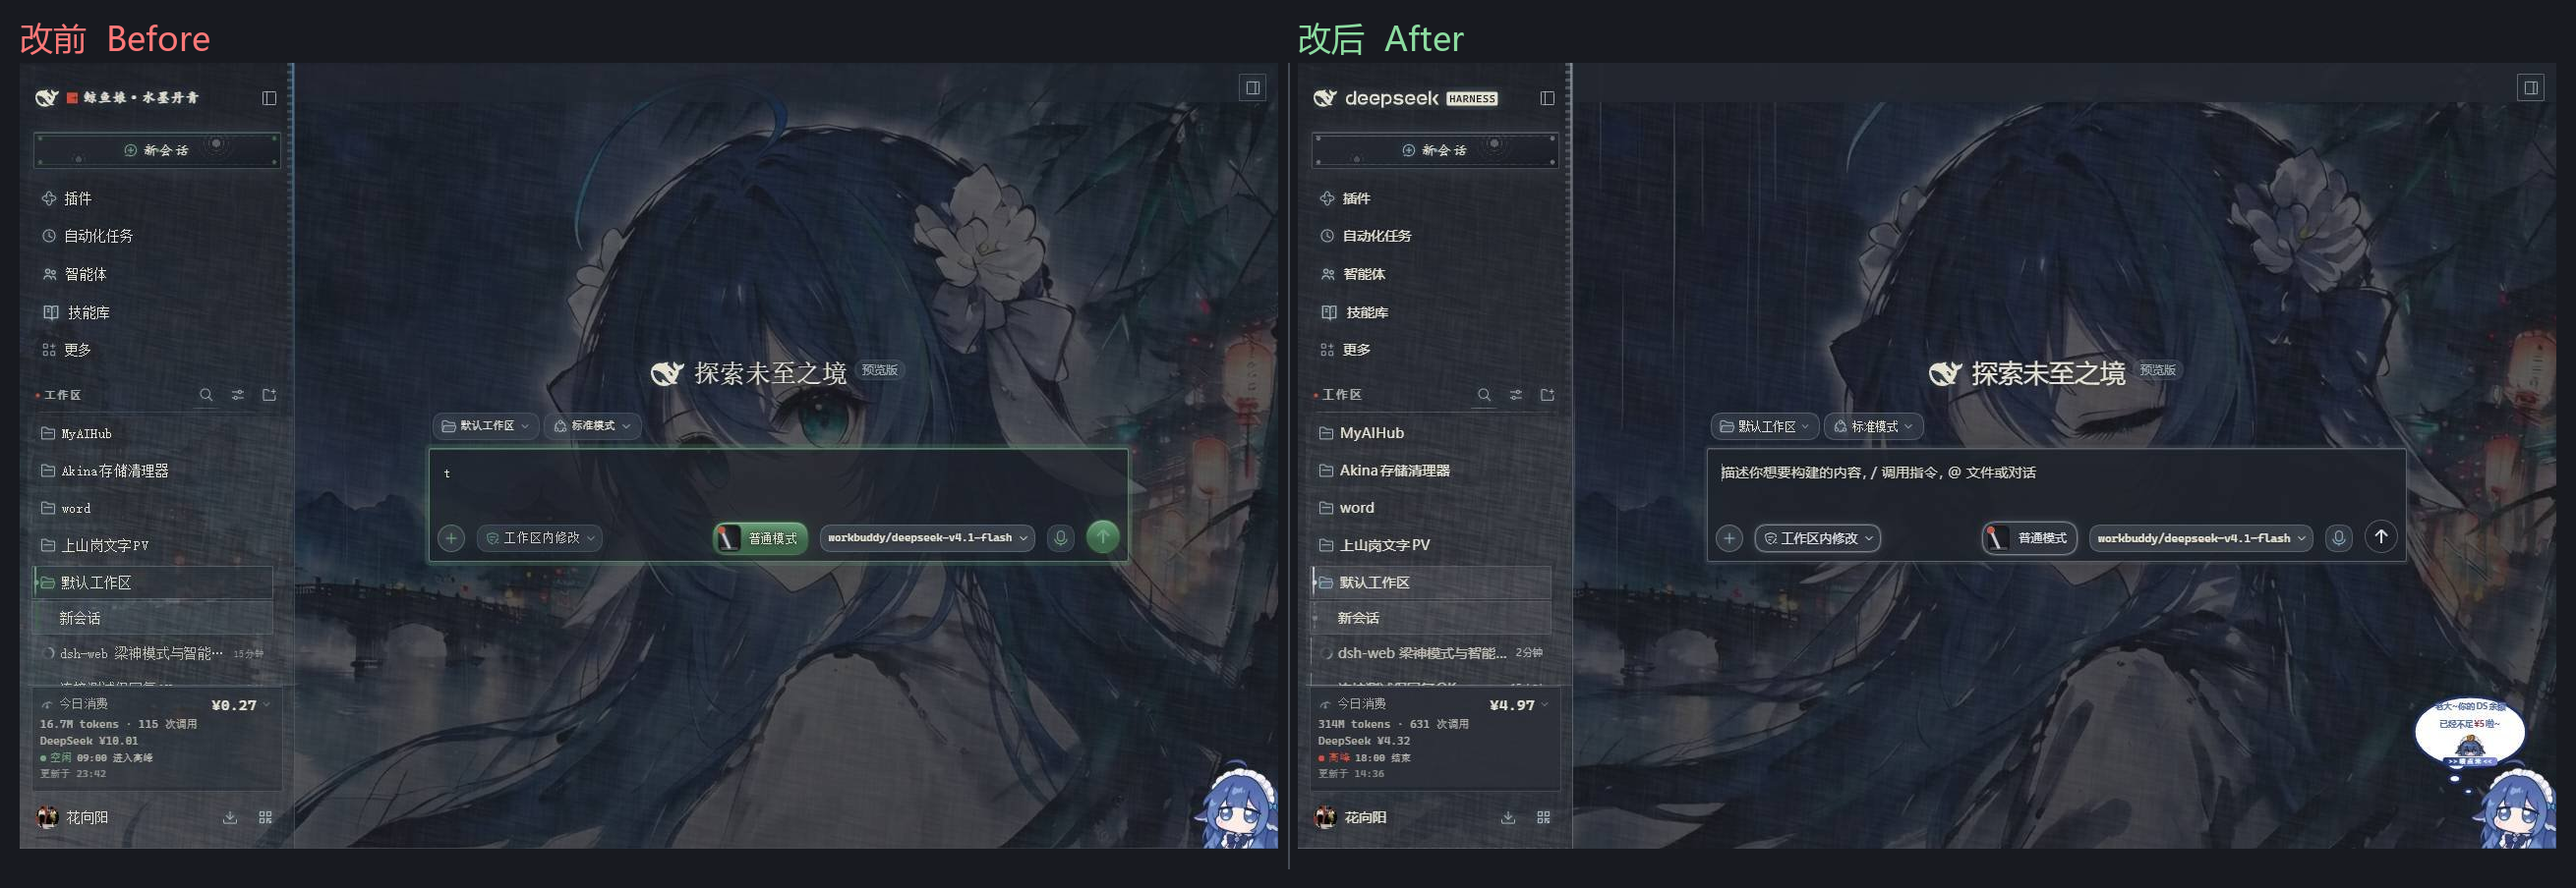
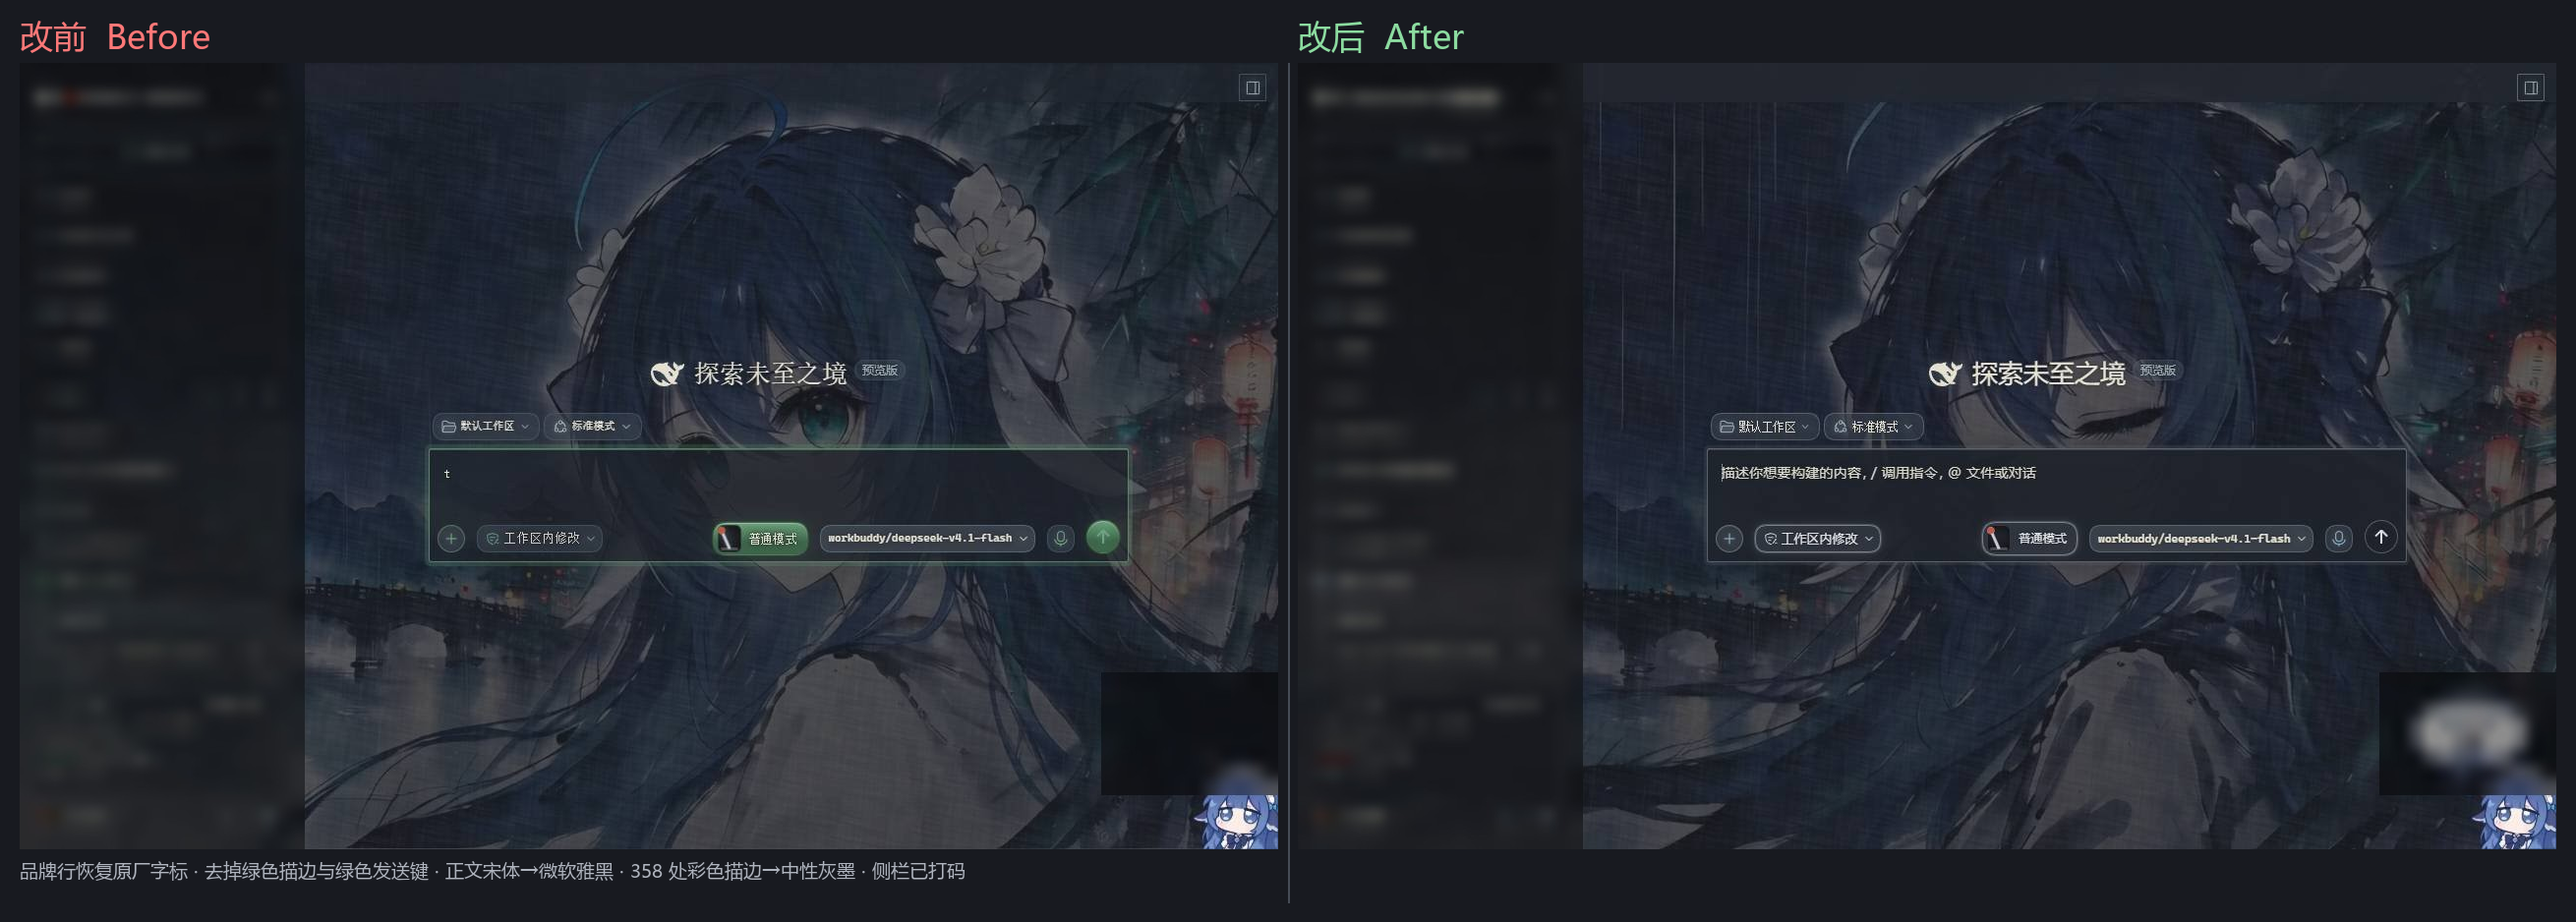
docs: 隐私打码、开头讲清改动、补充前置依赖说明
1. 图片去敏
   - 对比图与两张原图（safe-before/safe-after）的左侧栏与右下角气泡全部模糊打码，
     避免暴露工作区名、会话名、账号与用量数字
   - 重做 before-after.png，底部加一行改动摘要

2. 开头讲清「改了什么、为什么改」
   - README 第一屏即给出 5 行对照表：问题 → 改法 → 理由
     （动画永远在播 / 宋体小字发虚 / 358 处彩色描边 / 品牌行被替换 / 面板过透）
   - 补充两处小修（次要文字提亮、柔光减层）与「装饰元素未动」的说明
   - 删除原先重复的「为什么要做这个改版」章节

3. 补充安装前置依赖（重要）
   - 明确 DSH 本体不自带皮肤功能，~/.dsh/skins、皮肤中心界面、skin.json 格式
     均来自第三方插件 @linxin666/dsh-client-ui-skin-center（属 dsh-web-all 全家桶）
   - 给出两条前提检查项与缺失时的安装办法
   - 说明皮肤目录默认路径与 DSH_SKINS_HOME / DSH_SKINS_DIR 覆盖方式
   - 提示：设置里没有「皮肤中心」入口 = 插件没装，皮肤放对目录也不会被识别

diff --git a/README.md b/README.md
@@ -1,14 +1,58 @@
 # 鲸鱼娘 · 水墨丹青（清晰版）
 
-**Whale Girl · Ink Wash (Readable)** — DSH 皮肤
+**Whale Girl · Ink Wash (Readable)** — DSH 皮肤（基于原作者皮肤的**可读性改版**）
 
 ![改前 / 改后对比](docs/images/before-after.png)
 
-> **这是一个改版（fork），不是原作。**
-> 原皮肤 **《鲸鱼娘 · 水墨丹青》** 由 **stushansusu** 创作，经 [DSH Market](https://dsh-market.com) 发布，
-> 采用 **CC BY-NC-SA 4.0** 许可。
-> 本仓库是 **Akina2566** 在其基础上做的**可读性改进版**，同样以 CC BY-NC-SA 4.0 分享。
-> 原始美术素材版权归原作者，详见 [ATTRIBUTION.md](ATTRIBUTION.md)。
+---
+
+> **这是改版（fork），不是原作。**
+> 原皮肤《鲸鱼娘 · 水墨丹青》由 **stushansusu** 创作、经 [DSH Market](https://dsh-market.com) 发布，
+> 采用 **CC BY-NC-SA 4.0**。本仓库是 **Akina2566** 的可读性改版，同样以 CC BY-NC-SA 4.0 分享。
+> 美术素材版权归原作者，详见 [ATTRIBUTION.md](ATTRIBUTION.md)。
+
+## 我改了什么、为什么改
+
+原皮肤很好看，但**作为每天要看几小时中文长文的界面**，有五处顶不住：
+
+| # | 改前的问题 | 我改成了什么 | 为什么 |
+|---|---|---|---|
+| 1 | 背景视频**永远在播**（25 秒循环），读消息、打字时都在动 | **聊天时才播放，空闲时定格在画面最好的一帧** | 持续运动抢注意力；白字压在流动画面上更累 |
+| 2 | 正文落到 **SimSun（宋体）**，10.5px 压在半透明玻璃上 | 正文改 **微软雅黑**，小字整体上调一档 | 宋体小字笔画极细，暗底上发虚；雅黑同字号更实 |
+| 3 | **358 处**墨绿 / 蓝灰彩色描边（按钮、边框、图标、进度条） | 统一成**中性灰墨**，只保留墨阶层次 | 满屏彩色描边让主次不清，也压掉了「墨分五色」的高级感 |
+| 4 | 左上角被换成「鲸鱼娘·水墨丹青」+ 朱印 | 恢复**原厂 deepseek HARNESS** 字标 | 遮挡厂商标识；且每次看到都在提醒「这是皮肤」 |
+| 5 | 侧栏不透明度只有 **54%**，背后 4K 画面透上来 | 面板压到 **85–90%** | 文字与画面互相干扰，长文阅读很累 |
+
+顺带还有两处小修：暗色模式次要文字提亮（6 个 token，覆盖时间戳/占位符）、文字柔光从三层收到两层（去掉字缘那圈「糊」的晕）。
+
+**装饰性的东西一点没动**：楷体标题、印章、笔锋、墨点、纸纹、朱印（品牌行那方除外）全部保留，所以水墨的味道还在，只是**正文能看清了**。
+
+> 动画改动需要配合插件才能生效，原理与实现见 [🎬 动画改进](#-动画改进从一直在动到聊天时才动) 章节。
+
+---
+
+## ⚠ 安装前必读：这套皮肤依赖什么
+
+**DSH 本体不自带「皮肤」功能**。`~/.dsh/skins/` 这个目录、皮肤中心界面、`skin.json` 格式，全部来自
+第三方插件 **`@linxin666/dsh-client-ui-skin-center`**（属于 `@linxin666/dsh-web-all` 全家桶，作者 zhu1090093659）。
+
+所以要先满足两个前提：
+
+| 前提 | 检查方法 | 没有的话怎么办 |
+|---|---|---|
+| **① 装了皮肤中心插件** | 设置里能看到「皮肤中心」入口 | 装 `@linxin666/dsh-web-all`（含皮肤中心），或单独装 `@linxin666/dsh-client-ui-skin-center` |
+| **② 用的是 Web GUI / 桌面客户端** | — | 皮肤只对 DSH 的图形界面生效，CLI 无关 |
+
+装好插件后，皮肤目录默认在：
+
+```
+~/.dsh/skins/<皮肤id>/
+Windows: %USERPROFILE%\.dsh\skins\<皮肤id>\
+```
+
+可用环境变量 `DSH_SKINS_HOME` 或 `DSH_SKINS_DIR` 改位置（优先 `DSH_SKINS_HOME`）。
+
+**不确定装没装？** 打开 DSH → 设置，看左侧有没有「皮肤中心」这一项。没有的话先装插件，否则本皮肤即使放对目录也不会被识别。
 
 ---
 
@@ -158,21 +202,6 @@ git clone https://github.com/Akina2566/dsh-plugin-bg-motion.git \
 试过 `filter: brightness(0.5)`，**无效**——等比缩放会保留亮部，白纸区域依然刺眼。
 最后改成：在视频上叠**与 `skin.json` 声明完全相同的那两层渐变 scrim**，这样播放与静止
 吃的是同一层遮罩，白字对比度从 1.09:1 恢复到 **10.7:1**。
-
----
-
-## 为什么要做这个改版
-
-原皮肤视觉上很完整，但在**中文长文本阅读**场景下有五处硬伤：
-
-1. **字体回退**：字体栈是 `'Noto Serif SC', 'Source Han Serif SC', SimSun, ...`。
-   多数 Windows 机器没装思源宋体，实际回退到 **SimSun（宋体）**——宋体在 10.5–12.5px、
-   压在半透明墨玻璃上时笔画极细，白字发虚。
-2. **小字号过密**：侧栏标题、时间戳、状态行大量使用 10.5px / 11px。
-3. **彩色描边过多**：原作把「墨绿」当作「可交互」的语义色，散布在按钮、边框、图标、
-   进度条、链接等 **300+ 处**，满屏彩色描边削弱主次。
-4. **品牌行被替换**：左上角被替换成「鲸鱼娘·水墨丹青」+ 朱印，遮挡原厂标识。
-5. **面板过透**：侧栏仅 54% 不透明度，背后 4K 视频透上来，文字与画面互相干扰。
 
 ---
 
